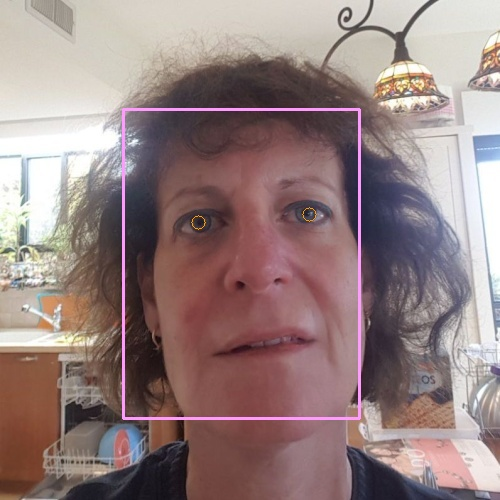
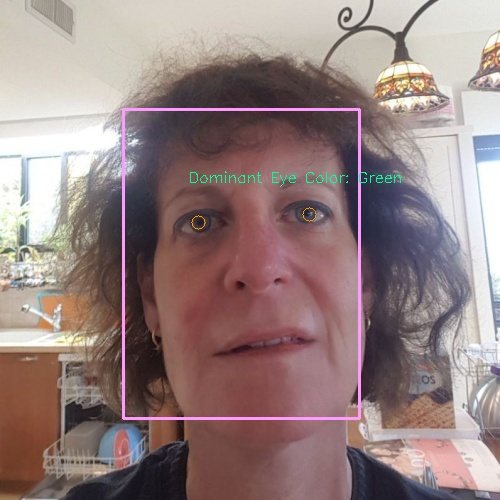
small fix.

Changed region(s): [[0.36, 0.33, 0.81, 0.39]]

diff --git a/eye-color.py b/eye-color.py
@@ -88,7 +88,7 @@ def eye_color(image):
         print(class_name[i], ": ", round(eye_class[i]/total_vote*100, 2), "%")
     
     label = 'Dominant Eye Color: %s' % class_name[main_color_index]  
-    cv2.putText(image, label, (left_eye[0]-10, left_eye[1]-40), cv2.FONT_HERSHEY_SIMPLEX, 1, (155,255,0))
+    cv2.putText(image, label, (left_eye[0]-10, left_eye[1]-40), cv2.FONT_HERSHEY_SIMPLEX, 0.5, (155,255,0))
     cv2.imshow('EYE-COLOR-DETECTION', image)
 
 if __name__ == '__main__':
@@ -98,7 +98,7 @@ if __name__ == '__main__':
         image = cv2.imread(opt.input_path, cv2.IMREAD_COLOR)
         # detect color percentage
         eye_color(image)
-        cv2.imwrite('data/result.jpg', image)    
+        cv2.imwrite('sample/result.jpg', image)    
         cv2.waitKey(0)
 
     # video or webcam

diff --git a/README.md b/README.md
@@ -25,7 +25,7 @@
     Green Gray :  0.0 %
     Other :  34.56 %
 
-<p align="left"><img src="sample/result.jpg" width="740"\></p>
+<p align="left"><img src="sample/result.jpg" width="640"\></p>
 
 #### Usage [Video/Webcam]
     $ python eye-color.py --input_path=sample/video.mp4 --input_type=video
@@ -43,7 +43,7 @@
     Green Gray :  0.79 %
     Other :  80.63 %
 
-<p align="left"><img src="sample/result_video.jpg" width="740"\></p>
+<p align="left"><img src="sample/result_video.jpg" width="640"\></p>
 
 #### References
 1. [MTCNN face detection implementation for TensorFlow, as a PIP package.](https://github.com/ipazc/mtcnn)
